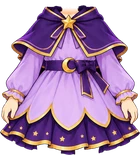
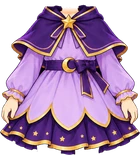
별빛 마법사 옷(여아): 위치 그대로 약 6% 더 키움 (#772)
배율 0.6577 → 0.698. 손을 뺀 몸도 새 소매 자리에 맞춰 다시 만들었다. img ?v=6 · body ?v=3.

Claude-Session: https://claude.ai/code/session_018maNuYqDfFyRSe9uKpZhPR

diff --git a/src/data/avatarEquipment.js b/src/data/avatarEquipment.js
@@ -250,8 +250,9 @@ export const AVATAR_CATALOG = [
      원화 맨 위의 턱 곡선을 지우고, 후드 사이 목 중심(x255.5)을 여아 목 중심 x512.5 에, 원화 턱선 y14 를 여아 턱선 y361 에 맞췄다.
      배율 0.62 — 원화 손이 아바타 손 자리(x357~417·y560~658)를 덮어 손이 두 쌍으로 안 보인다(흰 수영복 비침 0). 원화 목은 페이드. img ?v=4 · thumb ?v=2.
      [2026-10-02] 사용자 요청 — 옷에 그려진 손만 보이게, 입었을 때 손을 뺀 몸(bodyImgGirl)을 쓴다.
-     [2026-10-02] 사용자 조정 — 위치(턱선 y361)는 그대로 두고 0.62 → 0.6577(약 6% 키움). 손을 뺀 몸도 새 소매 자리에 맞춰 다시 만들었다. img ?v=5 · body ?v=2. */
-  { id: "top_magic",      slot: "top",   label: "별빛 마법사 옷", emoji: "🌟", price:DECOR_PRICE.epic, rarity: "epic", theme: "magic",  forGender: "girl", coversBottom: true, bodyImgGirl: "assets/avatar/base/body-girl-nohands.webp?v=2", img: "assets/avatar/top/magic-outfit-girl.webp?v=5",  thumb: "assets/avatar/thumb/top_magic.webp?v=3" },
+     [2026-10-02] 사용자 조정 — 위치(턱선 y361)는 그대로 두고 0.62 → 0.6577(약 6% 키움). 손을 뺀 몸도 새 소매 자리에 맞춰 다시 만들었다. img ?v=5 · body ?v=2.
+     [2026-10-02] 다시 키움 0.6577 → 0.698(×1.02×1.02×1.01×1.01), 위치 그대로. 목 양옆 어깨 노출 2px. img ?v=6 · body ?v=3. */
+  { id: "top_magic",      slot: "top",   label: "별빛 마법사 옷", emoji: "🌟", price:DECOR_PRICE.epic, rarity: "epic", theme: "magic",  forGender: "girl", coversBottom: true, bodyImgGirl: "assets/avatar/base/body-girl-nohands.webp?v=3", img: "assets/avatar/top/magic-outfit-girl.webp?v=6",  thumb: "assets/avatar/thumb/top_magic.webp?v=4" },
   /* 하늘 나들이 옷 — 이 원화만 '입은 전신 그림'이 아니라 '옷만 오려 낸 그림'으로 왔다.
      게다가 그린 몸이 베이스 v7 보다 다리가 길어서, 같이 온 '타이츠 있는 판'은
      어깨에 맞추면 타이츠가 발등까지 내려오고 발목에 맞추면 소매가 팔보다 좁았다.

diff --git a/art-src/README.md b/art-src/README.md
@@ -374,7 +374,7 @@ getBoundingClientRect로 재서 정한다. 2026-08-05 점검에서 이 기준을
 | (여아 전수 점검 2026-09-25) | 사용자 요청으로 **여아가 볼 수 있는 옷·모자 10종을 전부** 훑었다(입은 모습 + 상점 카드 + 자홍 배경 + 수치). 눈에 띄는 흠은 없었지만 수치로 **부스러기와 1픽셀급 구멍**이 남아 있어, 아바타 장비 전 파일에 같은 규칙을 한 번에 돌렸다 — **연결 조각 60px 미만 제거 + 테두리에 안 닿는 250px 이하 구멍을 이웃 색으로 메움**. 17개 파일이 손질됐다(해적 모자 부스러기 40·구멍 191 / 해적 옷 여아 구멍 73 / 별빛 마법사 부스러기 41 / 사파리 여아 부스러기 5·구멍 48 / 딸기 소풍 부스러기 7·구멍 22 …). 가장자리가 반투명이라 첫 판에 안 채워진 3개는 이웃 기준을 알파 60 으로 낮춰 마무리했다. **결과: 상점에 있는 17개 파일 전부 조각 1개·부스러기 0·구멍 0.** 손질로 그림이 바뀐 8종은 썸네일을 다시 뽑고 `?v=` 를 올렸다. 은퇴 파일(비행모·꽃헬멧·탐험헬멧·크림부츠·탐험끈·데님/카키 반바지) 8개도 같은 규칙에 함께 손질됐다 — 상점엔 없지만 배포본에는 들어가므로 그대로 뒀다 | (전 파일) |
 | space-girl-src.webp | **[2026-09-25 탑재본 청소]** 색으로 옷을 떼어낸 흔적(손·목·발 살 조각, 깃 안쪽 목)이 층에 남아 있었다. 입은 모습에선 베이스의 같은 자리와 겹쳐 안 보였지만 **상점 카드에선 옷에 손이 매달린 것처럼 보였다.** 소매부리 y583 아래 바깥 덩어리·바지밑단 y868 아래·깃 안쪽 y346~374 의 살과 머리카락을 지우고(3,812px + 부스러기 9조각 22px) 썸네일을 다시 뽑았다. 남아 것도 깃 안쪽 목(y400~428, 1,608px)을 같은 이유로 지웠다. 깃 안은 베이스의 제 목이 채우므로 구멍이 생기지 않는다(실측 확인). **우주복 원화 여아 (사용자 원화 2026-08-19)** — 베이스 v7 여아가 **입고 있는 전신 그림**(897×1753, 배경 검정). 크림색 우주복 + 연보라 어깨·벨트·무릎보호대 + 금색 지퍼·별 패치. 팔다리까지 덮는 한 벌 | avatar/top/space-suit-girl.webp |
 | picnic-girl-src.webp | **딸기 소풍 옷 원화 여아 (사용자 원화 2026-08-19)** — 베이스 v7 여아가 **입고 있는 전신 그림**(859×1832, 배경 검정). 분홍 깅엄 카디건 + 크림 블라우스 + 딸기 자수 산호색 반바지 | avatar/top/picnic-outfit-girl.webp |
-| magic-girl-src.webp | **별빛 마법사 옷 원화 여아 — 새 판 (사용자 원화 2026-10-02, 이전 판 교체)**. 512×553 투명 배경, 보라 후드 망토(금 테두리·별 브로치) + 연보라 원피스·초승달 허리띠·별 무늬 보라 치마, 소매 끝에 치마를 잡은 손까지 그려져 있다. 맨 위(원화 y0~16)에 베이스 턱 아래 곡선이 함께 그려져 있어 보라·금색이 아닌 픽셀을 지웠다. 후드 사이 목 중심 x255.5 를 여아 목 중심 x512.5 에, 원화 턱선 y14 를 여아 턱선 y361 에 맞추고 배율 0.62 — 원화 손이 아바타 손 자리(x357~417·y560~658)를 덮고 그 아래는 치마가 가려 손이 두 쌍으로 안 보인다(손을 지우면 손목이 잘려 보여 살렸다). 목 살은 턱선 아래 20px 동안 0→1 페이드. 흰 수영복 비침 0, 조각 1개. 탑재 상자 (354,353,671,695) · ?v=4 **[2026-10-02 보정]** 사용자 요청으로 옷에 그려진 손만 보이게 — 이 옷을 입으면 손을 뺀 몸 base/body-girl-nohands.webp 를 쓴다(카탈로그 bodyImgGirl). body-girl ?v=13 에서 소매가 팔을 다 덮는 줄(왼 y486·오른 y480)부터 아래의 양팔 덩어리와 손가락 조각(왼 x≤414·오른 x≥598)을 지워 만들었다 — **body-girl 을 바꾸면 이 파일도 다시 만들어야 한다** **[2026-10-02 조정]** 사용자 요청으로 위치는 그대로, 배율 0.62 → 0.6577(×1.04×1.02). 탑재 상자 (344,353,681,716) · img ?v=5, 손을 뺀 몸도 다시 만들어 ?v=2(소매가 팔을 덮는 줄 양쪽 y470) | avatar/top/magic-outfit-girl.webp · thumb/top_magic.webp |
+| magic-girl-src.webp | **별빛 마법사 옷 원화 여아 — 새 판 (사용자 원화 2026-10-02, 이전 판 교체)**. 512×553 투명 배경, 보라 후드 망토(금 테두리·별 브로치) + 연보라 원피스·초승달 허리띠·별 무늬 보라 치마, 소매 끝에 치마를 잡은 손까지 그려져 있다. 맨 위(원화 y0~16)에 베이스 턱 아래 곡선이 함께 그려져 있어 보라·금색이 아닌 픽셀을 지웠다. 후드 사이 목 중심 x255.5 를 여아 목 중심 x512.5 에, 원화 턱선 y14 를 여아 턱선 y361 에 맞추고 배율 0.62 — 원화 손이 아바타 손 자리(x357~417·y560~658)를 덮고 그 아래는 치마가 가려 손이 두 쌍으로 안 보인다(손을 지우면 손목이 잘려 보여 살렸다). 목 살은 턱선 아래 20px 동안 0→1 페이드. 흰 수영복 비침 0, 조각 1개. 탑재 상자 (354,353,671,695) · ?v=4 **[2026-10-02 보정]** 사용자 요청으로 옷에 그려진 손만 보이게 — 이 옷을 입으면 손을 뺀 몸 base/body-girl-nohands.webp 를 쓴다(카탈로그 bodyImgGirl). body-girl ?v=13 에서 소매가 팔을 다 덮는 줄(왼 y486·오른 y480)부터 아래의 양팔 덩어리와 손가락 조각(왼 x≤414·오른 x≥598)을 지워 만들었다 — **body-girl 을 바꾸면 이 파일도 다시 만들어야 한다** **[2026-10-02 조정]** 사용자 요청으로 위치는 그대로, 배율 0.62 → 0.6577(×1.04×1.02). 탑재 상자 (344,353,681,716) · img ?v=5, 손을 뺀 몸도 다시 만들어 ?v=2(소매가 팔을 덮는 줄 양쪽 y470) **[2026-10-02 재조정]** 배율 0.6577 → 0.698(위치 그대로). 탑재 상자 (334,353,691,737) · img ?v=6, 손을 뺀 몸 ?v=3 | avatar/top/magic-outfit-girl.webp · thumb/top_magic.webp |
 | pirate-girl-outfit-src.webp | **해적 옷 원화 여아 — 새 판 (사용자 원화 2026-10-02, 이전 판 교체)**. 416×485 투명 배경, 크림 퍼프 블라우스(둥근 깃·주황 리본·금단추) + 주황 허리띠를 맨 남색 반바지 한 벌. 위쪽에 목(턱 없음)이 함께 그려져 있다. 원화 목 외곽선 x177.5~240.5(폭 63, 중심 209)를 여아 목 중심 x512.5 에, 곧은 목선이 끝나는 원화 y15 를 여아 y372 에 맞추고 배율 0.70(목 폭이 같아지는 값 · 흰 수영복도 이 값부터 0). 목 살(r−b>70)과 목 옆선은 원화 y4→20 동안 0→1 페이드. 조각 1개. 탑재 상자 (366,362,657,702) · imgGirl ?v=4 | avatar/top/pirate-outfit-girl.webp · thumb/top_pirate-girl.webp |
 | picnic-girl-hat-worn-src.webp | **딸기 밀짚모자 원화 여아 (사용자 원화 2026-08-20)** — 베이스 v7 여아가 **쓰고 있는 머리 그림**(557×565, 투명). 밀짚모자 + 빨간 띠 + 딸기. 얼굴 상자로 맞춤(배율 0.6317) · 탑재 상자 (342,71)-(693,284) | avatar/hat/picnic-hat-girl.webp |
 | picnic-girl-set-worn-src.webp | **딸기 소풍 세트 전신 그림 여아 (사용자 원화 2026-08-20)** — 860×1829, 알파가 머리 부분만 살아 있어서 **RGB의 검정 배경을 흘려 지워** 썼다. 여기서 신발(발목 아래)만 떼어냈다. 바구니는 손에 가려 조각나서 못 썼다 | **(넣었다가 상점에서 뺌 2026-08-20)** — 그림은 avatar/shoes/picnic-shoes-girl.webp 에 그대로 있다 |
